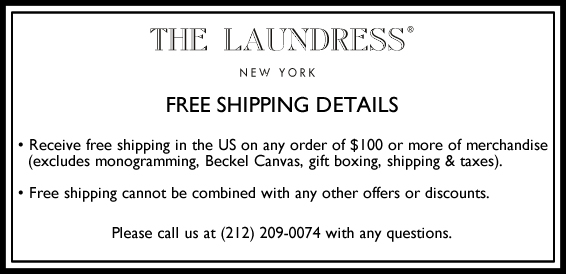
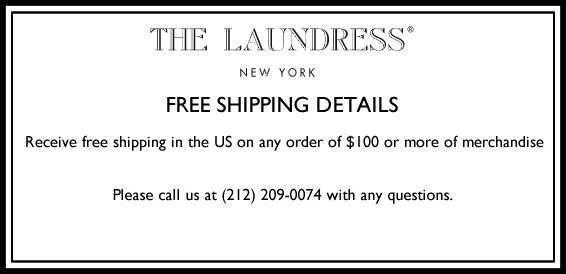
[Ticket #180] Styled the free shipping popup

Changed region(s): [[0.03, 0.4964, 0.9912, 0.6131], [0.03, 0.6715, 0.871, 0.7299], [0.1802, 0.8175, 0.811, 0.8759]]

diff --git a/skin/frontend/ultimo/default/css/skin.css b/skin/frontend/ultimo/default/css/skin.css
@@ -542,7 +542,7 @@ div.action-box.addto-textlink.clearer {float: left; margin-left: 20px; width: 54
     background-repeat:no-repeat;
     width:566px;
     height:274px;
-    background-image: url('../images/FreeShippingPopup.jpg');
+    background-image: url('../images/FreeShippingPopup2.jpg');
 }
 
 #cboxClose {display: none}
